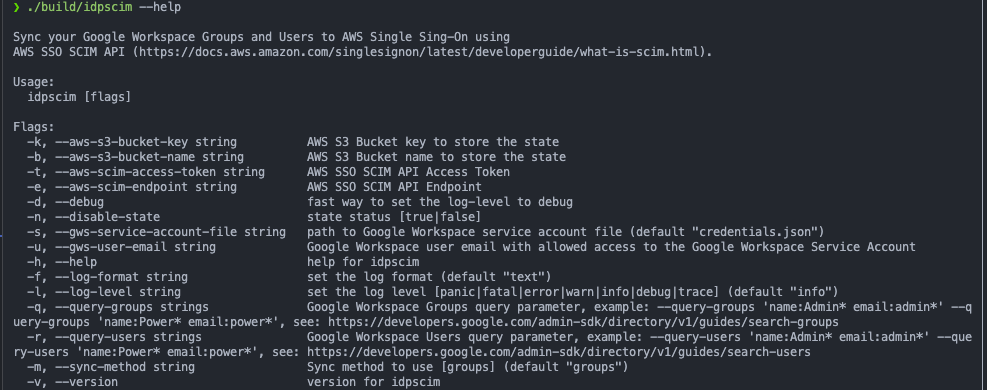
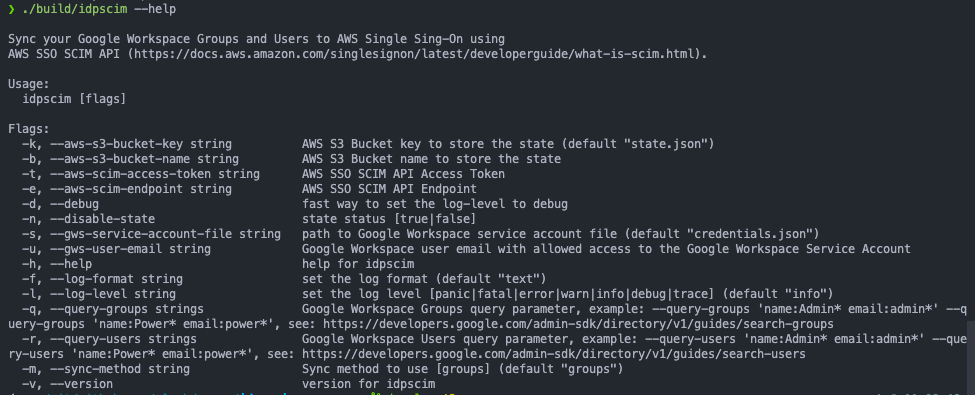
feat: implement the default AWS S3 bucket key value

diff --git a/cmd/idpscim/cmd/root.go b/cmd/idpscim/cmd/root.go
@@ -79,7 +79,7 @@ func init() {
 	rootCmd.PersistentFlags().StringVarP(&cfg.AWSS3BucketName, "aws-s3-bucket-name", "b", "", "AWS S3 Bucket name to store the state")
 	_ = rootCmd.MarkPersistentFlagRequired("aws-s3-bucket-name")
 
-	rootCmd.PersistentFlags().StringVarP(&cfg.AWSS3BucketKey, "aws-s3-bucket-key", "k", "", "AWS S3 Bucket key to store the state")
+	rootCmd.PersistentFlags().StringVarP(&cfg.AWSS3BucketKey, "aws-s3-bucket-key", "k", config.DefaultAWSS3BucketKey, "AWS S3 Bucket key to store the state")
 	_ = rootCmd.MarkPersistentFlagRequired("aws-s3-bucket-key")
 
 	rootCmd.PersistentFlags().BoolVarP(&cfg.DisableState, "disable-state", "n", config.DefaultDisableState, "state status [true|false]")

diff --git a/internal/config/config_test.go b/internal/config/config_test.go
@@ -51,7 +51,7 @@ func TestConfig_toJSON(t *testing.T) {
   "SCIMEndpointSecretName": "IDPSCIM_SCIMEndpoint",
   "SCIMAccessTokenSecretName": "IDPSCIM_SCIMAccessToken",
   "AWSS3BucketName": "",
-  "AWSS3BucketKey": "",
+  "AWSS3BucketKey": "state.json",
   "SyncMethod": "groups",
   "DisableState": false
 }`),
@@ -90,7 +90,7 @@ scim_access_token: ""
 scim_endpoint_secret_name: IDPSCIM_SCIMEndpoint
 scim_access_token_secret_name: IDPSCIM_SCIMAccessToken
 aws_s3_bucket_name: ""
-aws_s3_bucket_key: ""
+aws_s3_bucket_key: state.json
 sync_method: groups
 disable_state: false
 `),

diff --git a/internal/config/config.go b/internal/config/config.go
@@ -71,6 +71,9 @@ const (
 
 	// DefaultDisableState is the default state status.
 	DefaultDisableState = false
+
+	// AWSS3BucketKey is the key of the AWS S3 bucket.
+	DefaultAWSS3BucketKey = "state.json"
 )
 
 // New returns a new Config
@@ -87,6 +90,7 @@ func New() Config {
 		SCIMEndpointSecretName:          DefaultSCIMEndpointSecretName,
 		SCIMAccessTokenSecretName:       DefaultSCIMAccessTokenSecretName,
 		DisableState:                    DefaultDisableState,
+		AWSS3BucketKey:                  DefaultAWSS3BucketKey,
 	}
 }
 
